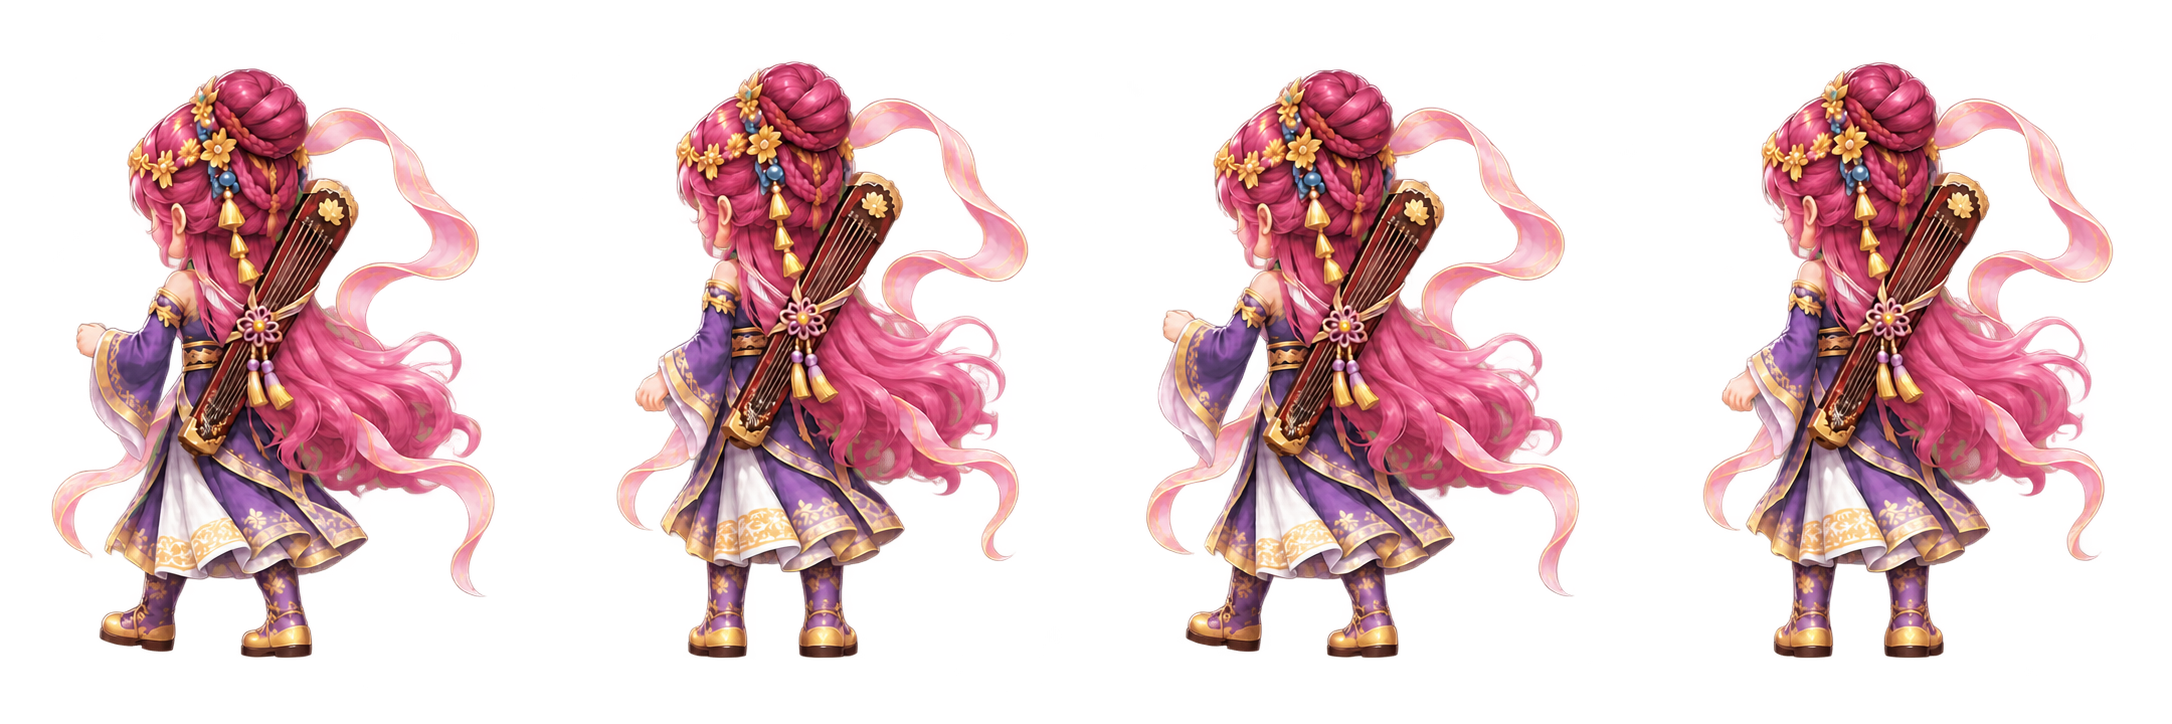
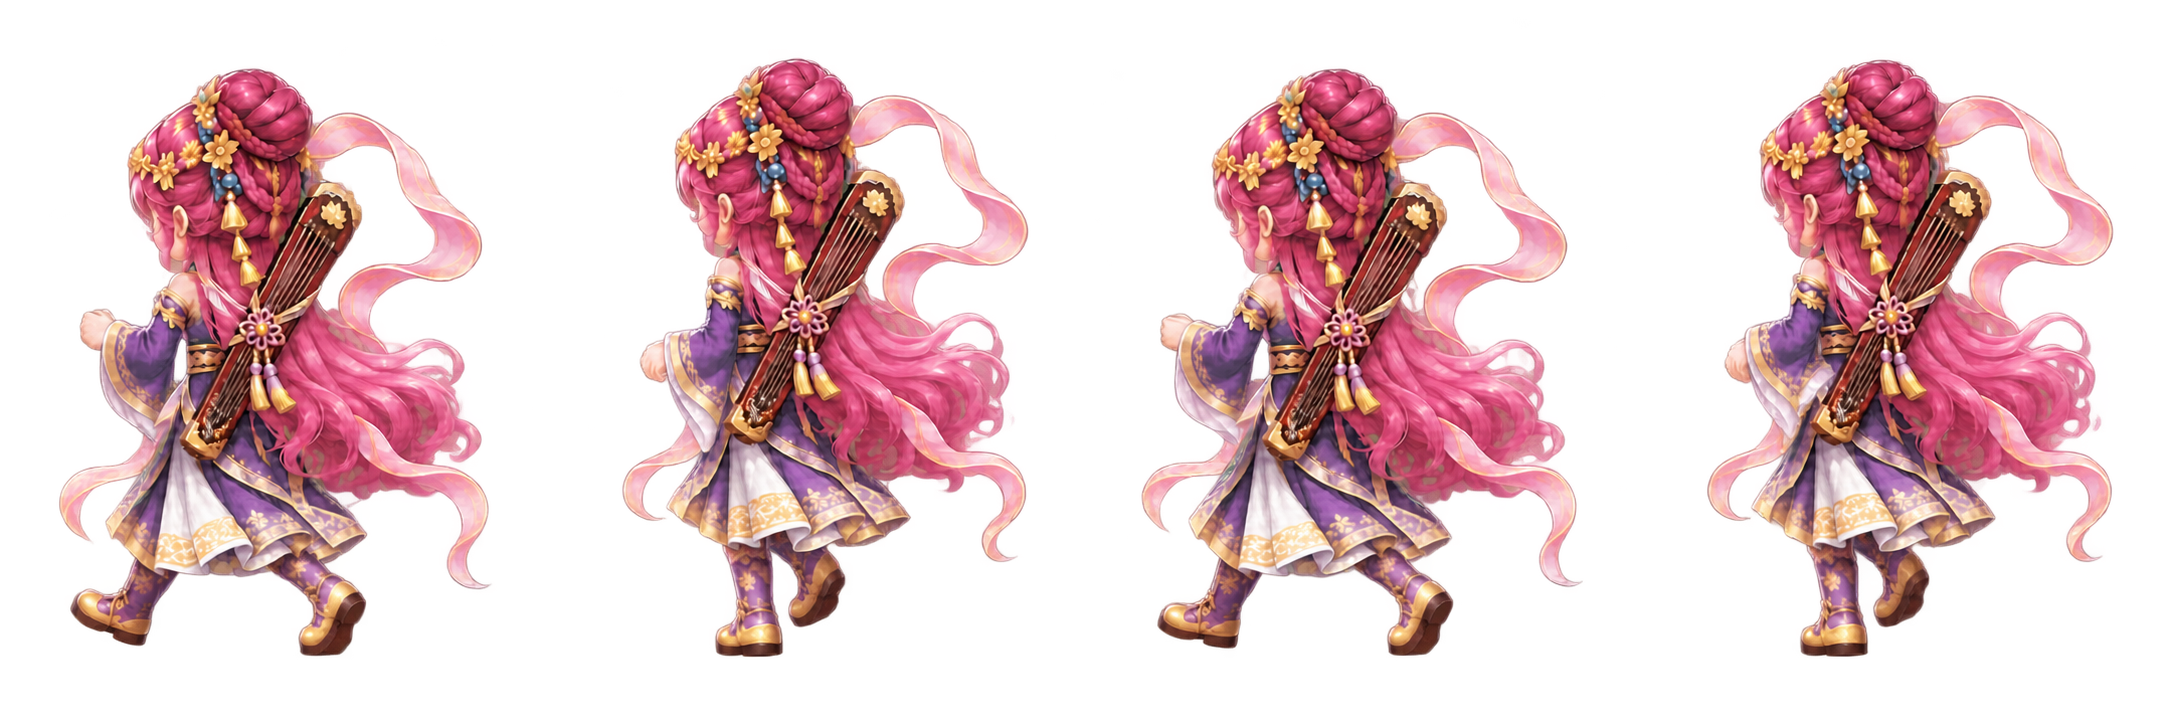
道家女背面行走表重新生成：标准走路循环、步幅明确；步频 24
Claude-Session: https://claude.ai/code/session_01Ug7SvjxsTvGWtWQTYLfcGg

diff --git a/js/game.js b/js/game.js
@@ -1234,7 +1234,7 @@ function placePlayer() {
     w.style.backgroundImage = 'url(' + IMG(WALK_SHEET[a.dir]) + ')'; w.style.backgroundSize = (sz[0] * 4) + 'px ' + sz[1] + 'px';
     w.style.width = sz[0] + 'px'; w.style.height = sz[1] + 'px'; w.style.left = (-sz[2]) + 'px'; w.style.setProperty('--ox', sz[2] + 'px');
   }
-  const stp = a.dir === 'b' && ROLE.cls.indexOf('dao_') === 0 ? 21 : STEP_LEN;      // 道家女背面步幅小：步频加快，免得脚像在地上滑
+  const stp = a.dir === 'b' && ROLE.cls.indexOf('dao_') === 0 ? 24 : STEP_LEN;      // 道家女背面步幅小：步频加快，免得脚像在地上滑
   const frame = a.moving && !reduce ? Math.floor(a.dist / stp) % 4 : 1;     // 站着不动用“并脚”那一帧
   const bobY = a.moving && !reduce && a.dir === 'b' ? -Math.abs(Math.sin(a.dist / stp * Math.PI / 2)) * 3 : 0;   // 走路时身体随步子轻微起伏
   w.style.backgroundPosition = (-frame * sz[0]) + 'px 0';

diff --git a/js/assets.js b/js/assets.js
@@ -476,9 +476,9 @@ window.ASSETS = {
    51.24558587479936
   ],
   "walk_b_dao_ty": [
-   84.0,
+   87.0,
    120.0,
-   44.87397708674305
+   44.52692626346313
   ],
   "walk_f_dao_qm": [
    97.0,
@@ -486,9 +486,9 @@ window.ASSETS = {
    51.42605915267786
   ],
   "walk_b_dao_qm": [
-   92.0,
+   90.5,
    120.0,
-   48.092204526404025
+   46.95238095238095
   ],
   "b_dao_ty": [
    114.5,
@@ -560,9 +560,9 @@ window.ASSETS = {
    51.97423510466989
   ],
   "walk_b_dao_dz": [
-   88.0,
+   88.5,
    120.0,
-   46.48530646515533
+   49.061293031066334
   ],
   "b_dao_dz": [
    93.0,
